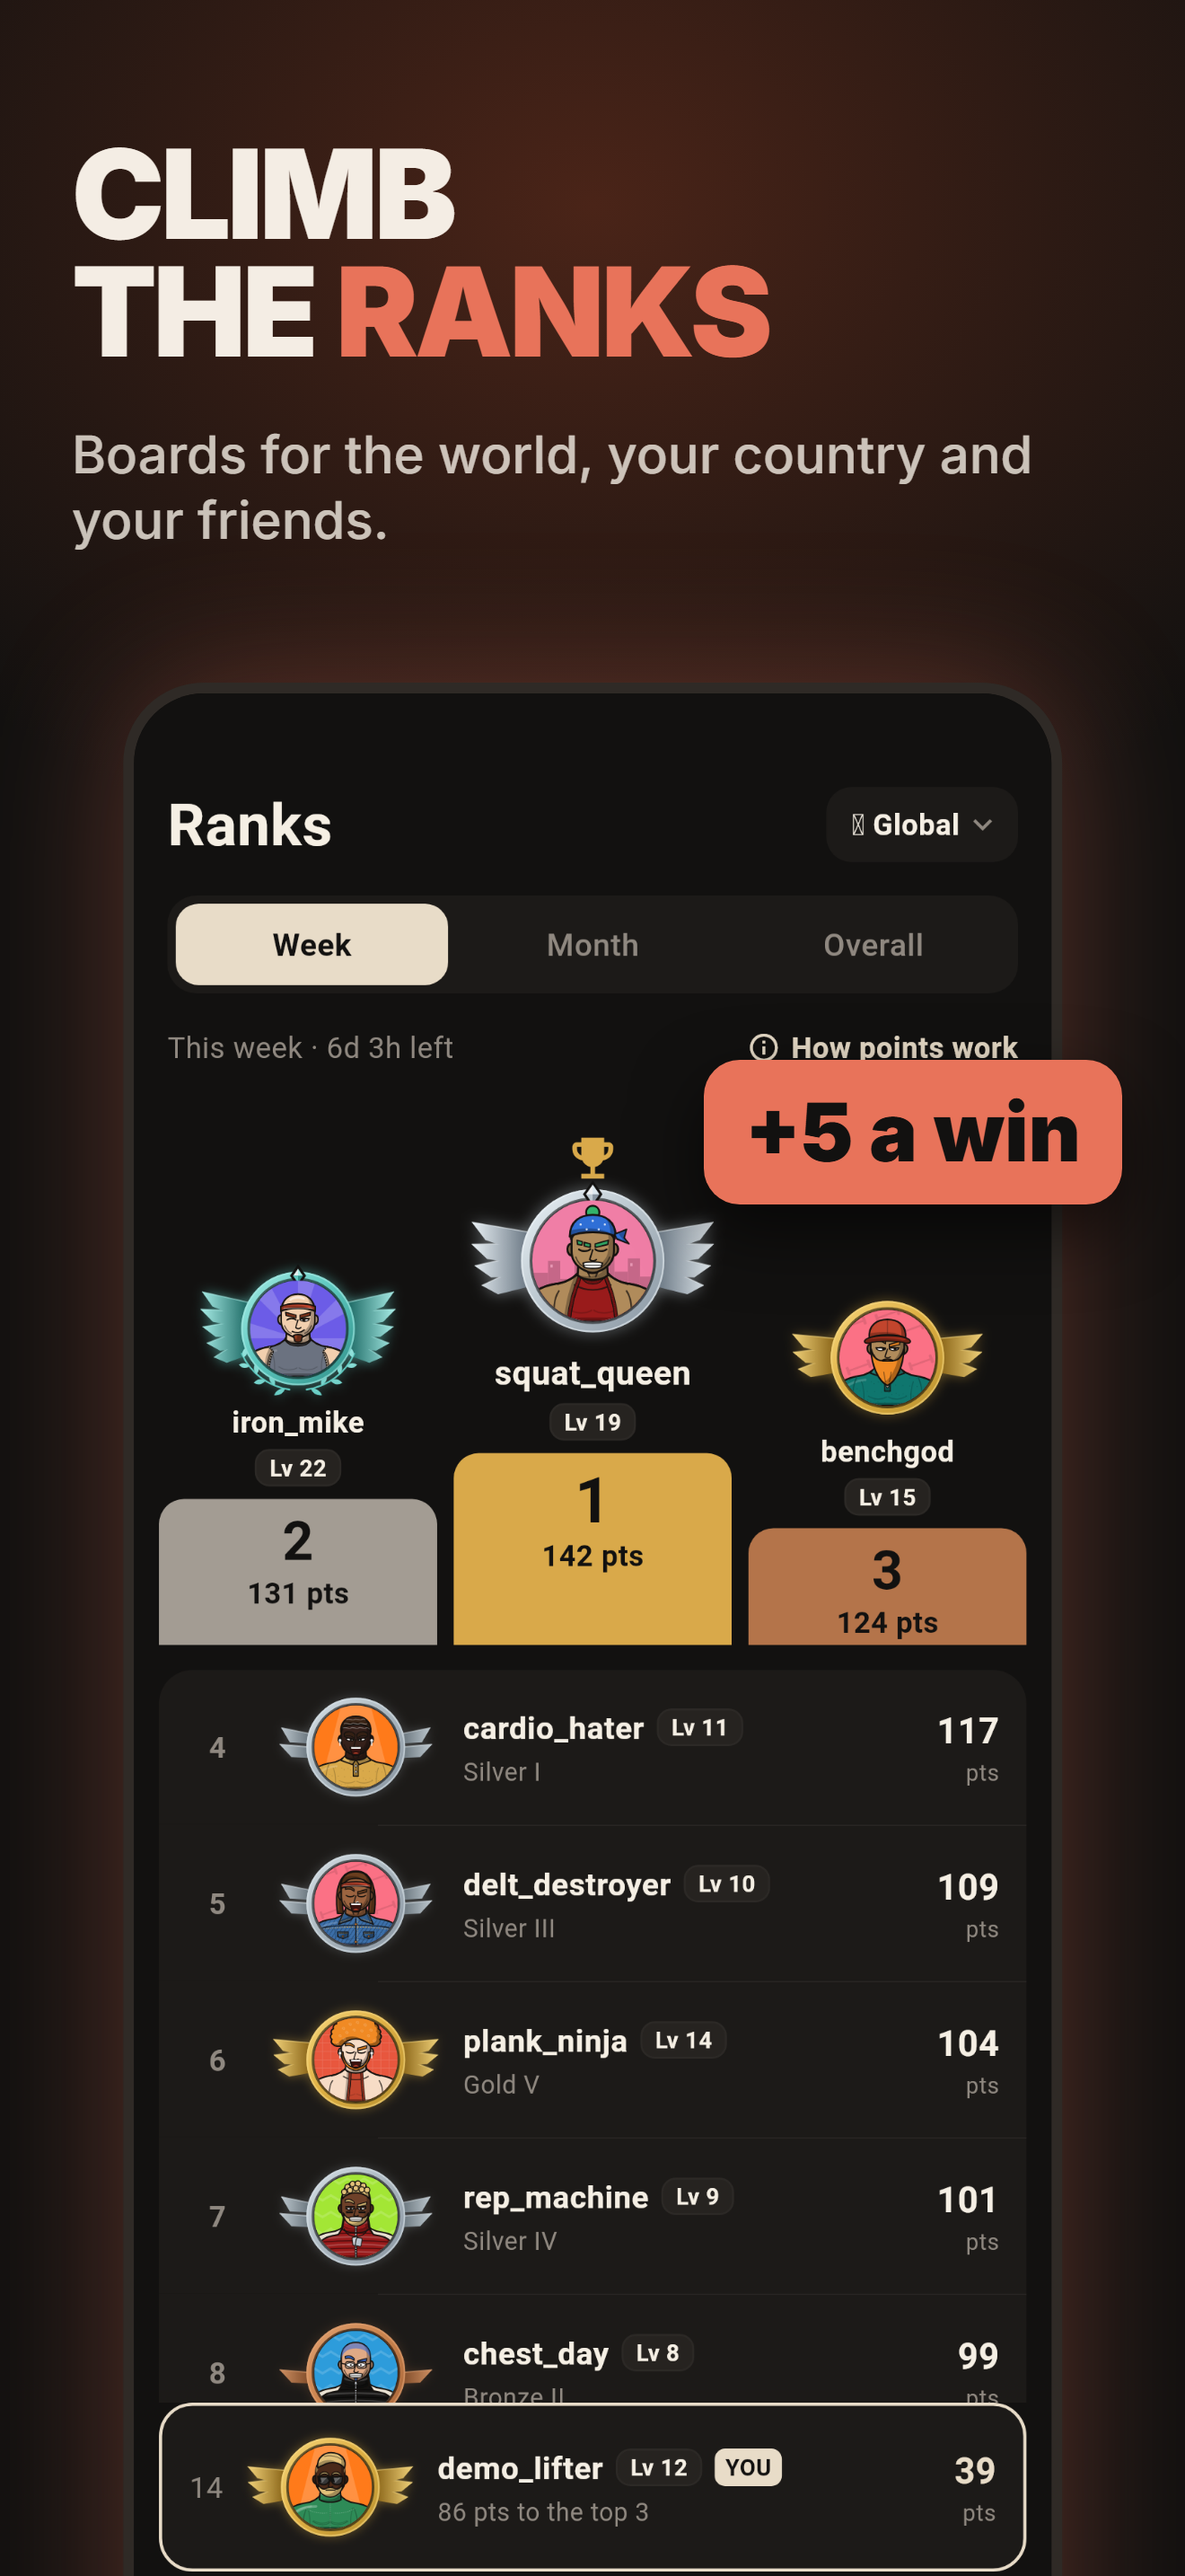
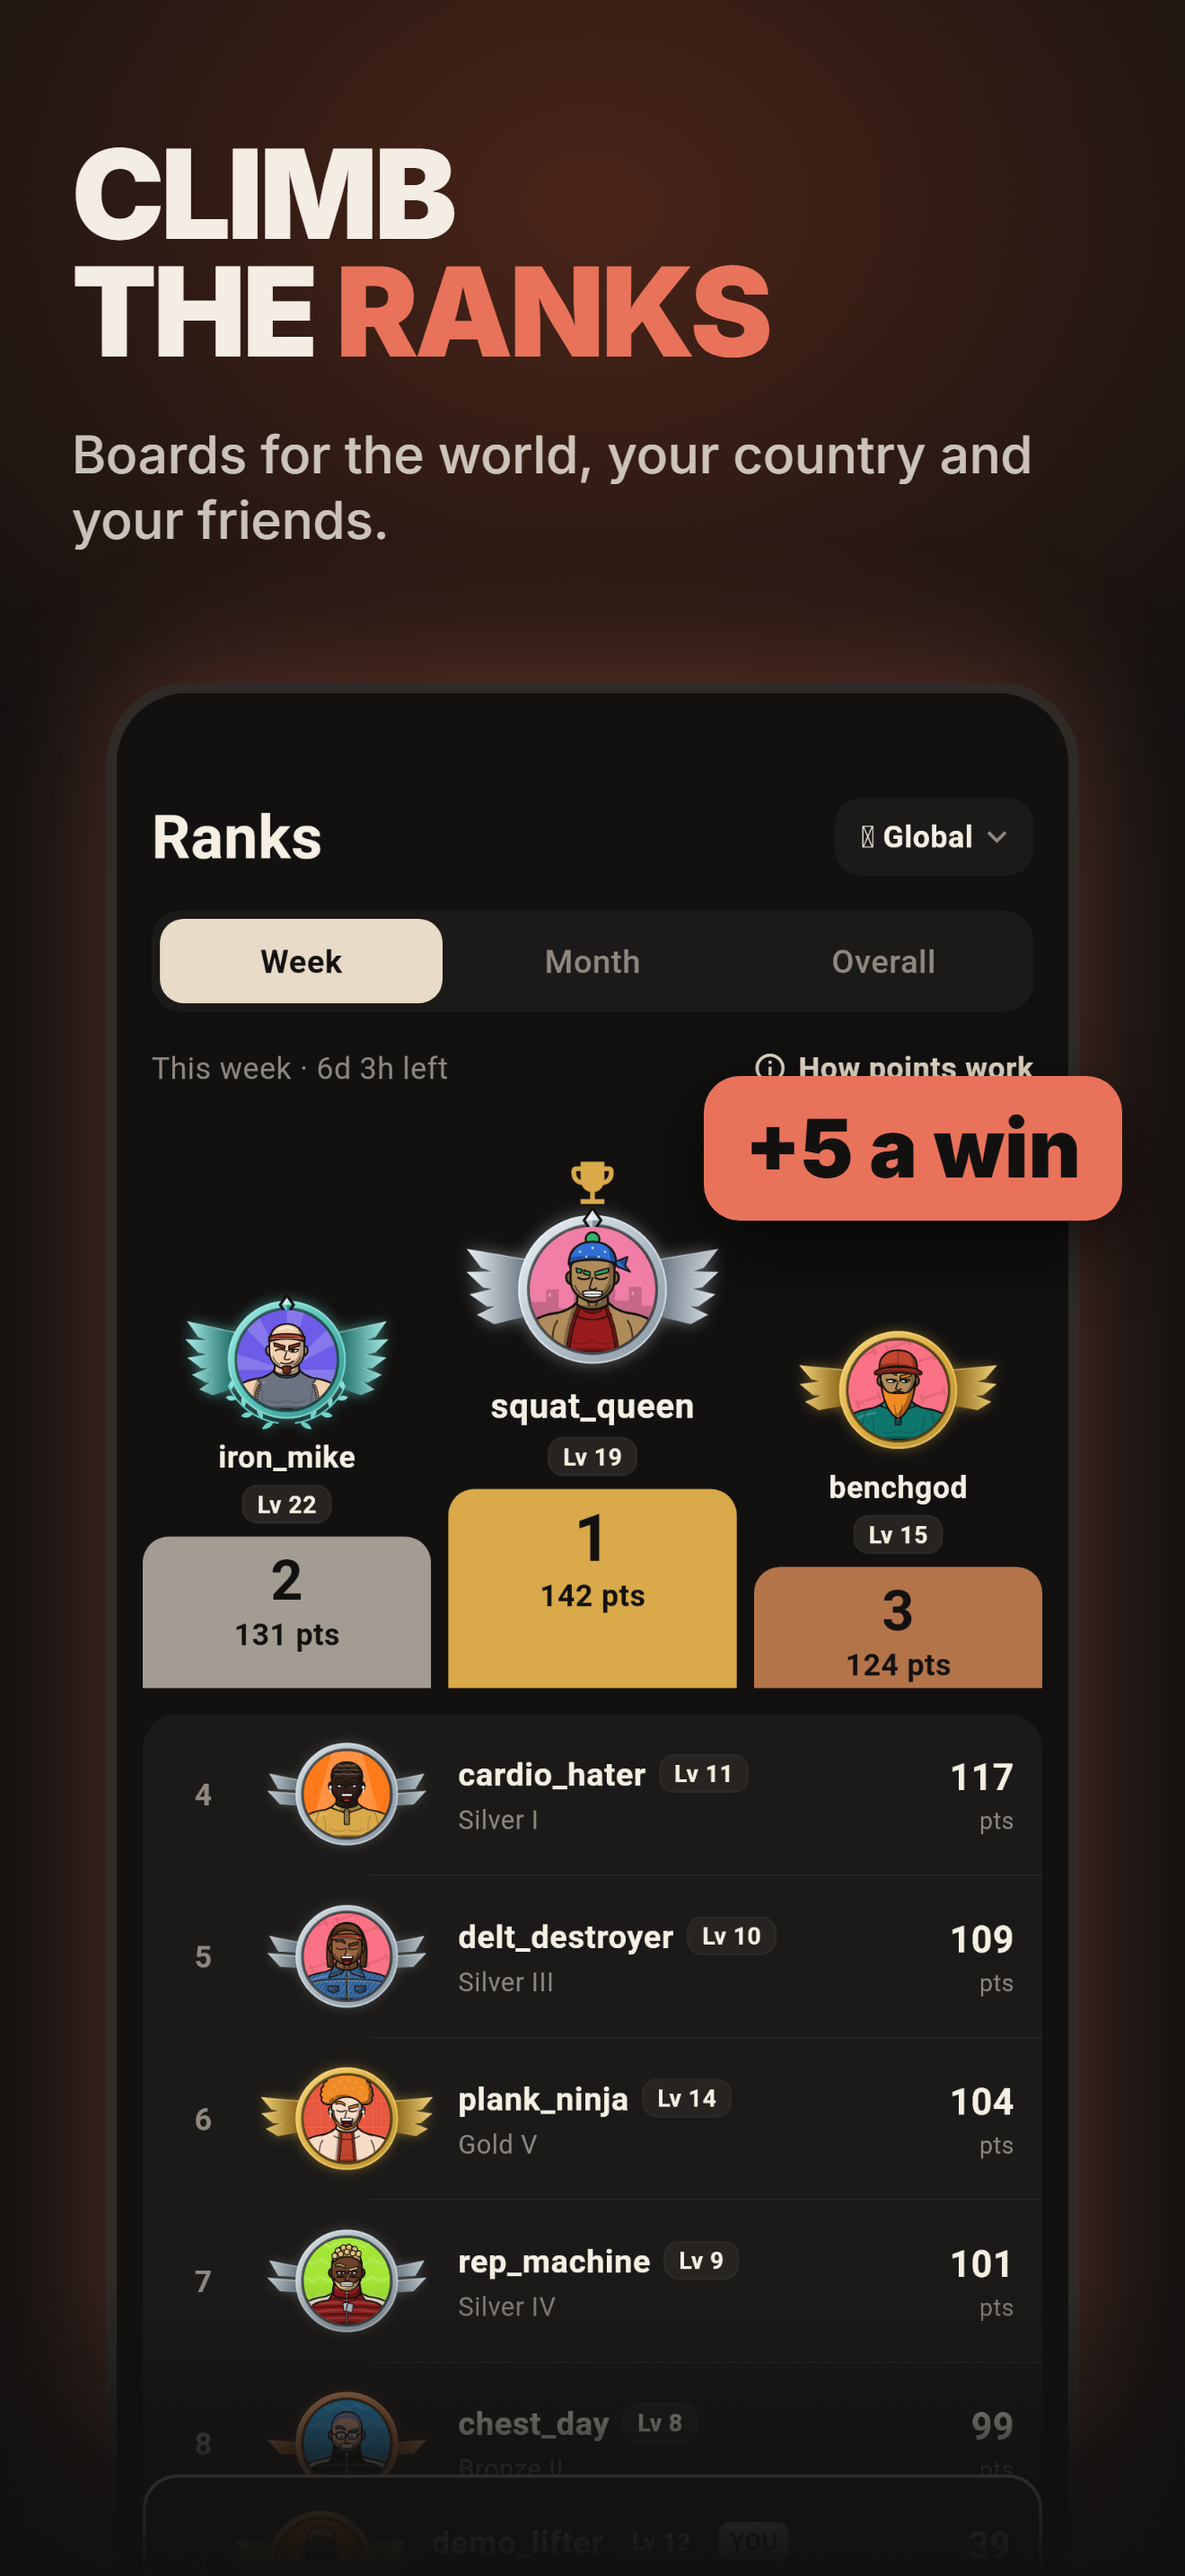
Store 1.1.7 screenshots: every screen placed the same way in its frame
One frame width for every shot of a size (the new 824-wide screens came out
narrower than the rest), the same status strip on top painted with each
screen's own colours (no dark band over the recap and milestone), the
Adventure screens' extra top inset trimmed, chips pinned to a row of the
screen, and a soft fade where the frame leaves the picture so no button is
sliced at the edge. The generator is kept in design/store/1.1.7.

diff --git a/design/store/1.1.7/composeB.html b/design/store/1.1.7/composeB.html
@@ -1,0 +1,75 @@
+<!doctype html><meta charset="utf-8">
+<link href="https://fonts.googleapis.com/css2?family=Inter:wght@500;900&display=swap" rel="stylesheet">
+<style>
+html,body{margin:0}
+body{font-family:Inter,Arial,sans-serif;overflow:hidden}
+.s{position:relative;overflow:hidden;background:radial-gradient(var(--gw) var(--gh) at 50% 8%,#4a2418 0%,#121110 70%)}
+h1{position:absolute;left:var(--side);right:var(--side);top:var(--top);margin:0;color:#f4ede4;font-weight:900;font-size:var(--h1);line-height:.95;letter-spacing:-.03em;text-transform:uppercase;white-space:nowrap}
+h1 em{font-style:normal;color:#e8735a}
+p{position:absolute;left:var(--side);right:var(--side);top:var(--ptop);margin:0;color:#f4ede4cc;font-weight:500;font-size:var(--p);line-height:1.25}
+.ph{position:absolute;left:50%;transform:translateX(-50%);top:var(--ftop);border-radius:var(--r);border:var(--b) solid #2f2a26;overflow:hidden;background:#121110;box-shadow:0 0 var(--glow) #e8735a55}
+.bar{position:absolute;left:0;right:0;top:0}
+.ph img{position:absolute;left:0;display:block;width:100%}
+.fade{position:absolute;left:0;right:0;bottom:0;height:var(--fade);background:linear-gradient(to bottom,#12111000 0%,#121110d9 62%,#121110 100%)}
+.chip{position:absolute;right:var(--cr);background:#e8735a;color:#121110;font-weight:900;font-size:var(--cf);border-radius:var(--crad);padding:var(--cpy) var(--cpx);box-shadow:0 var(--csh) calc(var(--csh) * 2.6) #0009;white-space:nowrap}
+</style>
+<div class="s" id="s"><h1 id="h"></h1><p id="p"></p><div class="ph" id="ph"><img id="img"><div class="bar" id="bar"></div></div><div class="fade"></div><div class="chip" id="chip"></div></div>
+<script>
+// One store screenshot in style A: a two-line headline, a line under it, the
+// app's own screen in a large frame running off the bottom, and one number
+// lifted out of that screen as a chip.
+// Every screen sits the same way: one frame width per size, the same status
+// strip on top, and a soft fade where the frame leaves the picture, so no
+// button is ever sliced in half at the edge.
+// ?w=&h=&img=&h1=&p=&chip=
+//  &pad=1    the screen was drawn without a status bar: add one, painted
+//            with the screen's own top colours (barbg, a CSS background)
+//  &drop=N   the screen has its own status inset: drop N rows of it
+//  &crow=N   the chip's middle sits at row N of the screen
+const q = new URLSearchParams(location.search);
+const W = +q.get('w'), H = +q.get('h'), k = W / 1320;
+const tall = H / W > 2;
+const v = {
+  side: 80 * k, top: (tall ? 150 : 96) * k, h1: (tall ? 138 : 118) * k,
+  ptop: (tall ? 470 : 360) * k, p: (tall ? 58 : 52) * k,
+  ftop: (tall ? 760 : 560) * k, r: 90 * k, b: 12 * k, glow: 160 * k,
+  gw: 1400 * k, gh: 1100 * k, fade: (tall ? 330 : 230) * k,
+  cr: 70 * k, cf: (tall ? 90 : 80) * k, crad: 40 * k,
+  cpy: 26 * k, cpx: 46 * k, csh: 30 * k,
+};
+const s = document.getElementById('s');
+s.style.width = W + 'px'; s.style.height = H + 'px';
+for (const [n, x] of Object.entries(v)) s.style.setProperty('--' + n, x + 'px');
+document.getElementById('h').innerHTML = q.get('h1');
+document.getElementById('p').textContent = q.get('p');
+const chip = document.getElementById('chip');
+if (q.get('chip')) chip.textContent = q.get('chip'); else chip.remove();
+const img = document.getElementById('img');
+img.onload = () => {
+  const ph = document.getElementById('ph'), bar = document.getElementById('bar');
+  // The same width for every screen of a size, whatever shape it was drawn at.
+  const fw = (tall ? 1060 : 860) * k;
+  const fh = tall ? 2300 * k : H - v.ftop + 80 * k;
+  const scale = fw / img.naturalWidth;
+  const barH = q.get('pad') === '1' ? fw * 0.087 : 0;
+  const drop = +(q.get('drop') || 0);
+  ph.style.width = fw + 'px';
+  ph.style.height = fh + 'px';
+  img.style.top = (barH - drop * scale) + 'px';
+  bar.style.height = barH + 'px';
+  // soft=1: the screen's art reaches its top edge (confetti), so the strip
+  // melts into it instead of slicing it on a line.
+  if (barH && q.get('soft') === '1') {
+    const over = 70 * k;
+    bar.style.height = (barH + over) + 'px';
+    bar.style.webkitMaskImage = bar.style.maskImage = 'linear-gradient(#000 ' + (barH / (barH + over) * 100) + '%, transparent)';
+  }
+  if (barH) bar.style.background = q.get('barbg') || '#121110'; else bar.remove();
+  if (q.get('chip')) {
+    const mid = v.ftop + v.b + barH + (+q.get('crow') - drop) * scale;
+    chip.style.top = (mid - chip.offsetHeight / 2) + 'px';
+  }
+  document.title = 'done';
+};
+img.src = q.get('img');
+</script>

diff --git a/design/store/1.1.7/makeC.js b/design/store/1.1.7/makeC.js
@@ -1,0 +1,61 @@
+// The 1.1.7 store screenshots, style A, every screen placed the same way
+// (composeB.html). node makeC.js [size folder]   ONLY=02-challenge,... OUT=dir
+// The screens go in ci/ beside this file, taken from the ci-results branch
+// (latest/screens/<name>.png). render.sh uses Edge headless.
+const { execFileSync } = require('child_process');
+const fs = require('fs');
+const path = require('path');
+const read = require('./png.js');
+const here = __dirname;
+const out = process.env.OUT || 'C:/Users/MA/Desktop/mokhtar/OUTREPD 1.1.7 store screenshots';
+
+// [file, CI screen, headline, line, chip, chip row, how the top is drawn]
+// top: 'bar' = drawn without a status bar, add one; 'bleed' = the screen's
+// own art runs under the status bar; a number = rows of status inset to drop.
+const shots = [
+  ['01-live-match', 'store_live_match_1320x2868', 'Outrep<br>your <em>rival</em>', 'Live 1v1 push-up battles. The camera counts every rep.', '10 vs 7', 1731, 'bleed'],
+  ['02-challenge', 'challenge_open', 'Dare anyone<br>with a <em>link</em>', 'Send your minute. They race it, one try each.', '18 to beat', 253, 'bar'],
+  ['03-past-self', 'plan_page', 'Beat last<br><em>week’s you</em>', 'A six-week plan and a race every Sunday.', 'Week 2 of 6', 336, 'bar'],
+  ['04-awards', 'awards_cabinet', 'Medals in<br><em>five metals</em>', '14 families, Bronze to Diamond. Pin your best three.', '19 / 73', 171, 'bar'],
+  ['05-adventure-fight', 'store_1320x2868_adventure_fight', 'Push-ups are<br>your <em>weapon</em>', 'Every rep hits the monster.', '−10 HP', 608, 40],
+  ['06-ranks', 'store_1320x2868_02-ranks', 'Climb<br>the <em>ranks</em>', 'Boards for the world, your country and your friends.', '+5 a win', 527, 'bar'],
+  ['07-won', 'store_1320x2868_07-won', 'Win and<br><em>rank up</em>', 'A win adds 25 rating plus the gap in reps.', '+32', 527, 'bar'],
+  ['08-milestone', 'moment_milestone', 'Every rep<br><em>adds up</em>', 'Personal bests, milestones and your month in review.', '', 0, 'bleed'],
+  ['09-adventure-map', 'store_1320x2868_adventure_map', '140 levels.<br><em>7 worlds.</em>', 'A monster on every level.', '', 0, 40],
+  ['10-recap', 'recap', 'Your month<br><em>in review</em>', 'Push-ups, wins and your best minute, every month.', '', 0, 'bar'],
+];
+const sizes = [
+  { dir: 'app-store-1320x2868', w: 1320, h: 2868, count: 10 },
+  { dir: 'app-store-1206x2622', w: 1206, h: 2622, count: 10 },
+  { dir: 'app-store-1284x2778', w: 1284, h: 2778, count: 10 },
+  { dir: 'google-play-1080x1920', w: 1080, h: 1920, count: 8 },
+];
+
+// The status strip is painted with the screen's own top row, smoothed so a
+// stray piece of confetti does not become a stripe.
+function barOf(file) {
+  const im = read(path.join(here, 'ci', file + '.png'));
+  const hex = (c) => '#' + c.map((x) => Math.round(x).toString(16).padStart(2, '0')).join('');
+  const stops = [];
+  for (let i = 0; i <= 32; i++) {
+    const cx = Math.round((i / 32) * (im.w - 1)), ch = [[], [], []];
+    for (let x = Math.max(0, cx - 90); x <= Math.min(im.w - 1, cx + 90); x++)
+      for (let y = 0; y < 8; y++) im.px(x, y).forEach((c, j) => ch[j].push(c));
+    stops.push(hex(ch.map((a) => a.sort((p, r) => p - r)[a.length >> 1])));
+  }
+  return new Set(stops).size === 1 ? stops[0] : 'linear-gradient(to right,' + stops.map((c, i) => c + ' ' + (i * 100 / 32).toFixed(2) + '%').join(',') + ')';
+}
+
+for (const z of sizes.filter((z) => !process.argv[2] || z.dir === process.argv[2])) {
+  fs.mkdirSync(path.join(out, z.dir), { recursive: true });
+  for (const [name, src, h1, p, chip, crow, top] of shots.slice(0, z.count).filter(([n]) => !process.env.ONLY || process.env.ONLY.split(',').includes(n))) {
+    const q = new URLSearchParams({
+      w: z.w, h: z.h, img: 'ci/' + src + '.png', h1, p, chip, crow,
+      pad: top === 'bar' ? '1' : '0', drop: typeof top === 'number' ? top : 0,
+      ...(top === 'bar' ? { barbg: barOf(src) } : {}), ...(src === 'recap' ? { soft: '1' } : {}),
+    }).toString();
+    const dest = path.join(out, z.dir, name + '.png').split('\\').join('/');
+    const r = execFileSync('bash', [path.join(here, 'render.sh').split(path.sep).join('/'), 'composeB.html', q, dest, String(z.w), String(z.h)]).toString().trim();
+    console.log(z.dir, name, r);
+  }
+}

diff --git a/design/store/1.1.7/png.js b/design/store/1.1.7/png.js
@@ -1,0 +1,13 @@
+// Tiny PNG reader (8-bit RGB/RGBA, non-interlaced) -> {w,h,px(x,y)}
+const fs = require('fs'), zlib = require('zlib');
+module.exports = function read(file) {
+  const b = fs.readFileSync(file); let o = 8, w, h, ct, idat = [];
+  while (o < b.length) { const n = b.readUInt32BE(o), t = b.toString('ascii', o + 4, o + 8), d = b.subarray(o + 8, o + 8 + n);
+    if (t === 'IHDR') { w = d.readUInt32BE(0); h = d.readUInt32BE(4); ct = d[9]; } if (t === 'IDAT') idat.push(d); o += 12 + n; }
+  const bpp = ct === 6 ? 4 : 3, raw = zlib.inflateSync(Buffer.concat(idat)), st = w * bpp, out = Buffer.alloc(h * st);
+  for (let y = 0; y < h; y++) { const f = raw[y * (st + 1)], s = y * (st + 1) + 1;
+    for (let i = 0; i < st; i++) { const a = i >= bpp ? out[y * st + i - bpp] : 0, u = y ? out[(y - 1) * st + i] : 0, c = y && i >= bpp ? out[(y - 1) * st + i - bpp] : 0; let v = raw[s + i];
+      if (f === 1) v += a; else if (f === 2) v += u; else if (f === 3) v += (a + u) >> 1; else if (f === 4) { const p = a + u - c, pa = Math.abs(p - a), pb = Math.abs(p - u), pc = Math.abs(p - c); v += pa <= pb && pa <= pc ? a : pb <= pc ? u : c; }
+      out[y * st + i] = v & 255; } }
+  return { w, h, px: (x, y) => [out[y * st + x * bpp], out[y * st + x * bpp + 1], out[y * st + x * bpp + 2]] };
+};
